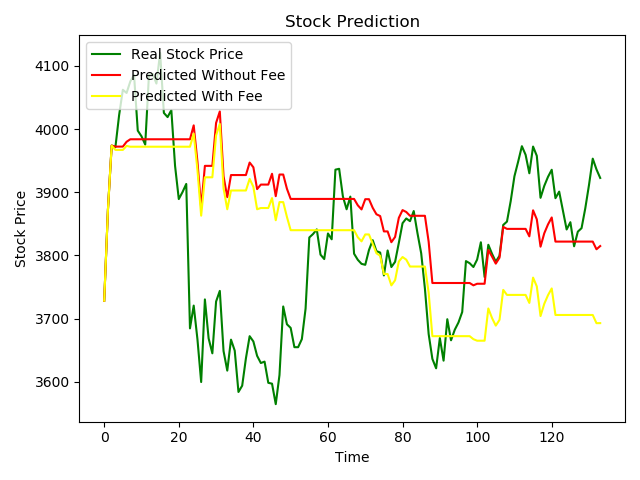
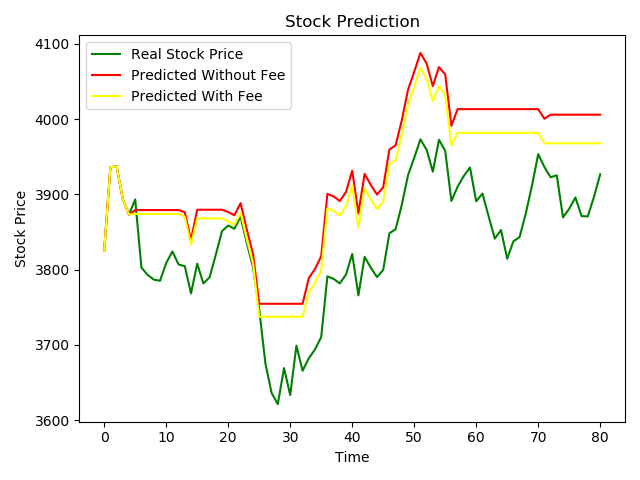
modify ml model and add finance data

diff --git a/window_predict.py b/window_predict.py
@@ -1,6 +1,7 @@
 # coding=utf-8
 import numpy as np
 import tushare as ts
+import talib as ta
 import time
 import logging
 import os
@@ -71,6 +72,11 @@ def window_predict(stock, window_len, time_steps, flat_num, close, change, mean,
     actual_down_num = 0  # 跌的天数
     actual_medium_num = 0  # 平的天数
 
+    predict_up_num_2 = 0
+    predict_down_num_2 = 0
+    actual_up_num_2 = 0
+    actual_down_num_2 = 0
+
     predict_result = []
     actual_result = []
 
@@ -102,6 +108,11 @@ def window_predict(stock, window_len, time_steps, flat_num, close, change, mean,
 
         predict_result.append(predict_state)
 
+        if change[i + window_len] >= 0:
+            actual_up_num_2 += 1
+        else:
+            actual_down_num_2 += 1
+
         if actual_state > 0:
             actual_up_num += 1
             if predict_state > 0:
@@ -115,8 +126,9 @@ def window_predict(stock, window_len, time_steps, flat_num, close, change, mean,
             if predict_state == 0:
                 medium_num += 1
 
-        if predict_state >= 0 and (not buyed):  # 预测结果涨 且 没有持有股票， 买入，手续费0.00032
+        if predict_state > 0 and (not buyed):  # 预测结果涨 且 没有持有股票， 买入，手续费0.00032
             buyed = 1
+            predict_up_num_2 += 1
             buy_num += 1
             rate_temp = (mean[i + window_len] - close[i + window_len - 1]) / close[
                 i + window_len - 1]  # 基于第二天股票均价相对于第一天收盘价的涨跌幅
@@ -126,6 +138,7 @@ def window_predict(stock, window_len, time_steps, flat_num, close, change, mean,
             base_money_fee = base_money_fee * (1 + rate_temp) * (1 - 0.00032)
         elif predict_state < 0 and buyed:  # 预测结果为跌 且 持有股票，抛出，手续费0.00132
             buyed = 0
+            predict_down_num_2 += 1
             sell_num += 1
             rate_temp = (mean[i + window_len] - close[i + window_len - 1]) / close[
                 i + window_len - 1]  # 基于第二天股票均价相对于第一天收盘价的涨跌幅
@@ -134,12 +147,14 @@ def window_predict(stock, window_len, time_steps, flat_num, close, change, mean,
             base_fee = base_fee * (1 + rate_temp) * (1 - 0.00132)
             base_money_fee = base_money_fee * (1 + rate_temp) * (1 - 0.00132)
         elif predict_state >= 0 and buyed:  # 预测结果为涨 且 持有股票，不进行操作
+            predict_up_num_2 += 1
             hold_num += 1
             base = base * (1 + change[i + window_len] / 100)
             base_money = base_money * (1 + change[i + window_len] / 100)
             base_fee = base_fee * (1 + change[i + window_len] / 100)
             base_money_fee = base_money_fee * (1 + change[i + window_len] / 100)
         else:  # 预测结果为跌 且 没有持有股票，不进行操作
+            predict_down_num_2 += 1
             empty_num += 1
 
         model_line.append(base_money)
@@ -163,6 +178,9 @@ def window_predict(stock, window_len, time_steps, flat_num, close, change, mean,
     logging.info(stock + '预测涨正确的比例' + str(up_num / actual_up_num * 100) + '%')
     logging.info(stock + '预测跌正确的比例' + str(down_num / actual_down_num * 100) + '%')
     logging.info(stock + '预测平正确的比例' + str(medium_num / actual_medium_num * 100) + '%')
+
+    logging.info(stock + '操作涨正确的比例' + str(predict_up_num_2 / actual_up_num_2 * 100) + '%')
+    logging.info(stock + '操作跌正确的比例' + str(predict_down_num_2 / actual_down_num_2 * 100) + '%')
 
     logging.info(stock + '总天数:' + str(close.shape[0] - window_len) + ',买入天数: ' + str(buy_num) + ',卖出天数: ' + str(
         sell_num) + ',持有天数: ' + str(hold_num) + ',空仓天数: ' + str(empty_num))
@@ -268,7 +286,7 @@ def window_back(stock, window_len, time_steps, flat_num, close, change, mean, pr
             if predict_state[i] == 0:
                 medium_num += 1
 
-        if predict_state[i] > 0and (not buyed):
+        if predict_state[i] > 0 and (not buyed):
             # 预测结果涨 且 没有持有股票， 买入，手续费0.00032
             buyed = 1
             buy_num += 1
@@ -278,7 +296,7 @@ def window_back(stock, window_len, time_steps, flat_num, close, change, mean, pr
             base_money = base_money * (1 + rate_temp)
             base_fee = base_fee * (1 + rate_temp) * (1 - 0.00032)
             base_money_fee = base_money_fee * (1 + rate_temp) * (1 - 0.00032)
-        elif predict_state[i] <= 0and buyed:
+        elif predict_state[i] < 0 and buyed:
             # 预测结果为跌 且 持有股票，抛出，手续费0.00132
             buyed = 0
             sell_num += 1
@@ -288,7 +306,7 @@ def window_back(stock, window_len, time_steps, flat_num, close, change, mean, pr
             base_money = base_money * (1 + rate_temp)
             base_fee = base_fee * (1 + rate_temp) * (1 - 0.00132)
             base_money_fee = base_money_fee * (1 + rate_temp) * (1 - 0.00132)
-        elif predict_state[i] > 0 and buyed:
+        elif predict_state[i] >= 0 and buyed:
             # 预测结果为涨 且 持有股票，不进行操作
             hold_num += 1
             base = base * (1 + change[i + window_len] / 100)
@@ -343,14 +361,13 @@ if __name__ == '__main__':
     pro = ts.pro_api()
 
     # 参数
-    stock = '399300.SZ'  # 399300.SZ   000905.SH
+    stock = '000905.SH'  # 399300.SZ   000905.SH
     window_len = 20  # 窗口的长度
-    time_steps = 3  # 每次训练的数据长度
+    time_steps = 5  # 每次训练的数据长度
     flat_num = 0.4  # (-flat_num, flat_num) 平
 
     quotes = pro.index_daily(ts_code=stock, start_date='20190301').sort_values(by=['trade_date'], ascending=True)
 
-    # 数据ema5 ema10 穿越 macd (diff   kdj  bulling线
     close_total = np.array(quotes['close'])
     open_total = np.array(quotes['open'])
     high_total = np.array(quotes['high'])
@@ -360,21 +377,30 @@ if __name__ == '__main__':
     turnover_value_total = np.array(quotes['amount'])
     mean_total = (np.array(quotes['high']) + np.array(quotes['low'])) / 2  # 均价
 
-    data_list = [open_total, close_total, high_total, low_total, turnover_value_total]
+    # 数据ema5 ema10 穿越 macd rsi (diff   kdj  布林线
+    # 金融数据指标
+    ema_num = 10
+    boll_num = 20
+    ema = ta.EMA(quotes['close'], ema_num).values
+    H_line, M_line, L_line = ta.BBANDS(quotes['close'], timeperiod=boll_num, nbdevup=2, nbdevdn=2, matype=0)
+
+    data_list = [ema[boll_num - 1:], H_line[boll_num - 1:], M_line[boll_num - 1:], L_line[boll_num - 1:],
+                 turnover_vol_total[boll_num - 1:]]
     data_unscaled = np.column_stack(data_list)
     data_scaled = scale(X=data_unscaled, axis=0)  # 归一化
 
     # 回测，减少时间
-    # predict_result = [-1, -1, -1, 0, 1, 0, 1, 0, 0, 0, -1, -1, 0, 1, 0, 0, 0, 0, 0, 0, 0, -1, 0, 1,
-    #                   1, 1, 1, 1, 1, 1, 1, 1, 0, 0, 0, 0, -1, 0, 0, 0, 0, 0, 0, 1, 1, 1, 1, -1,
-    #                   1, 1, -1, 1, 1, 0, 0, 0, 0, 0, 0, 0, -1, 0, 0, 0, 1, 0]
-    # actual_result = [0, 0, 0, 1, 0, -1, 0, -1, 1, -1, 0, 1, 1, 0, 0, 0, -1, -1, -1, -1, -1, 0, 1, -1,
-    #                  1, -1, 1, 0, 0, 1, 0, 0, 0, 1, -1, 1, 0, 0, 0, 1, 0, 1, 1, 1, 1, 0, -1, 1,
-    #                  0, -1, 1, 0, 0, -1, 0, -1, -1, 0, -1, 1, 0, 1, 1, 1, 0, 0]
+    # predict_result = [1, 1, 1, -1, 0, 0, -1, 0, 1, 0, -1, 0, 0, 0, 0, 1, 0, 0, 1, 1, 0, 0, 0, 0, 0, -1, -1, -1, -1, -1,
+    #                   -1, -1, -1, 1, 1, -1, 1, 1, 0, 0, 0, 0, 0, 0, 0, 0, 0, 0, 1, 1, 0, 1, 1, 1, 1, 0, -1, 0, 0, 0, 0,
+    #                   0, 0, 0, -1, -1, -1, -1, 1, 1, 1, 1, -1, -1, -1, -1, 1, -1, 1, 1]
+    # actual_result = [1, 0, -1, 0, 0, -1, 0, -1, 0, 0, 1, 0, 0, -1, 1, -1, 1, 1, 0, 0, 0, 1, -1, -1, -1, -1, -1, -1, 1,
+    #                  -1, 1, -1, 1, 1, 0, 1, 0, 0, 0, 0, -1, 1, 0, 0, -1, 1, 1, 1, 1, 0, 1, 0, -1, 1, 0, -1, 0, 1, 0, -1,
+    #                  0, -1, -1, 1, -1, 0, 1, 1, 0, 1, -1, -1, 0, -1, 0, 1, -1, 0, 1, 1]
     # window_back(stock=stock, window_len=window_len, time_steps=time_steps, flat_num=flat_num,
-    #             close=close_total, change=change_total, mean=mean_total,
+    #             close=close_total[boll_num - 1:], change=change_total[boll_num - 1:], mean=mean_total[boll_num - 1:],
     #             predict_state=predict_result, actual_state=actual_result)
     # exit()
 
     window_predict(stock=stock, window_len=window_len, time_steps=time_steps, flat_num=flat_num,
-                   close=close_total, change=change_total, mean=mean_total, data=data_scaled)
+                   close=close_total[boll_num - 1:], change=change_total[boll_num - 1:], mean=mean_total[boll_num - 1:],
+                   data=data_scaled)

diff --git a/ml_model.py b/ml_model.py
@@ -13,9 +13,9 @@ class MLModel:
         # build recurrent neural network
         model = Sequential()
         # return_sequences=True返回的是全部输出
-        # model.add(LSTM(units=64, input_shape=input_shape))
-        model.add(LSTM(units=64, return_sequences=True, input_shape=input_shape))
-        model.add(LSTM(units=32))
+        model.add(LSTM(units=64, input_shape=input_shape))
+        # model.add(BatchNormalization())
+        # model.add(LSTM(units=64, return_sequences=True, input_shape=input_shape))
         # model.add(Dropout(0.2))
         model.add(Dense(units=3))
         model.add(Activation('softmax'))
@@ -24,9 +24,9 @@ class MLModel:
         # model.summary()
         return model
 
-    def train_model(self, x_train, y_train, epoch=3, batch_size=None, verbose=1):
+    def train_model(self, x_train, y_train, epoch=5, batch_size=None, verbose=1):  # verbose=0不显示训练过程
         self.model.fit(x=x_train, y=y_train, epochs=epoch, batch_size=batch_size, verbose=verbose)
 
     def predict(self, x_test):
-        y_predict = self.model.predict(x_test, batch_size=32)
+        y_predict = self.model.predict(x_test, batch_size=None)
         return y_predict
